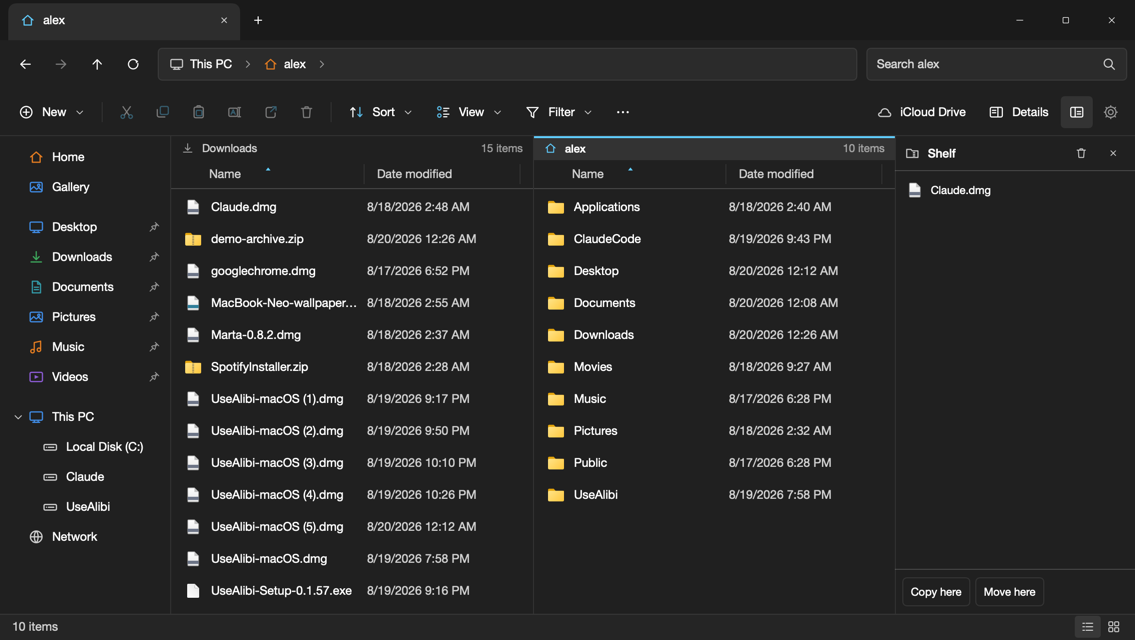
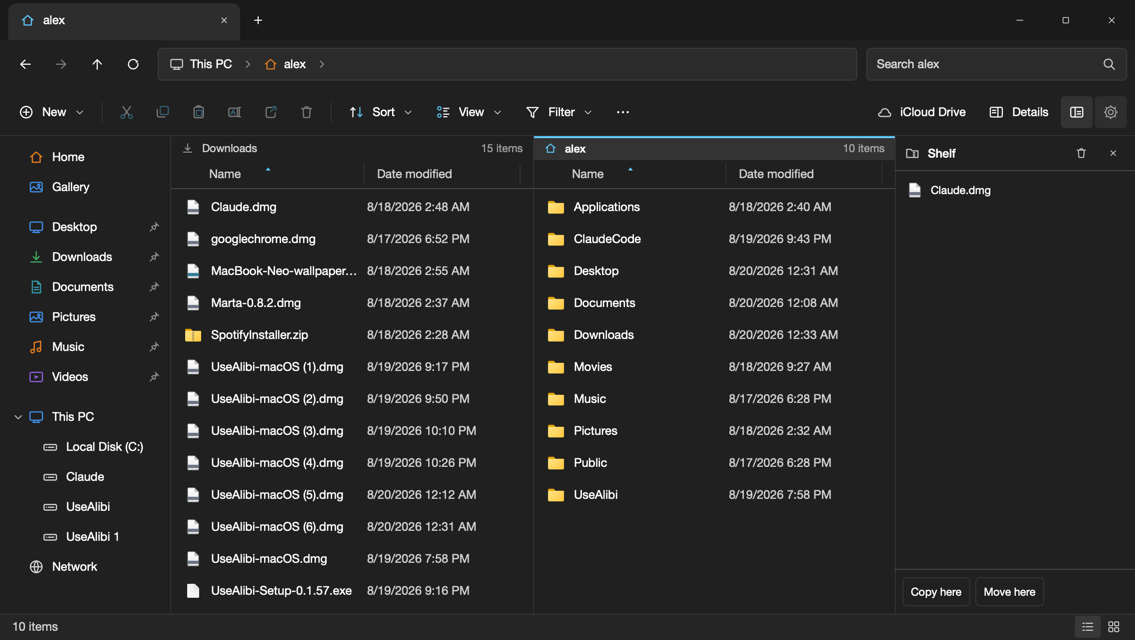
Stop the Home page from overflowing a narrow pane
With two panes open, the Recent list's fixed columns added up to about
830pt, far more than half a window. SwiftUI does not compress fixed
frames, so the row overflowed and dragged the whole layout sideways,
pushing the sidebar and the left pane off screen.

The Recent list now sheds Activity, then Account, then Date as space
runs out, the Quick access grid packs down to one column, and a pane
clips its content as a backstop.

Both column layouts are now value types with the allocation in their
initialiser, and the test suite checks across widths from 140 to 1600
that neither can ever lay out wider than the pane it is drawn in.

diff --git a/Sources/HomeView.swift b/Sources/HomeView.swift
@@ -15,7 +15,7 @@ struct HomeView: View {
                     .padding(.top, 10)
 
                 if quickExpanded {
-                    LazyVGrid(columns: [GridItem(.adaptive(minimum: 250, maximum: 460), spacing: 4)],
+                    LazyVGrid(columns: [GridItem(.adaptive(minimum: 190, maximum: 460), spacing: 4)],
                               alignment: .leading, spacing: 4) {
                         ForEach(quickItems) { place in
                             QuickTile(place: place, ex: ex)
@@ -183,12 +183,26 @@ struct RecentTable: View {
     }
 
     var body: some View {
+        GeometryReader { geo in
+            table(columns: RecentColumns(available: geo.size.width))
+        }
+        .frame(height: 30 + 1 + (rows.isEmpty ? 50 : CGFloat(rows.count) * 44) + 8)
+    }
+
+    private func table(columns: RecentColumns) -> some View {
         VStack(alignment: .leading, spacing: 0) {
             HStack(spacing: 0) {
-                Text("Name").frame(width: 320, alignment: .leading).padding(.leading, 40)
-                Text("Date accessed").frame(width: 190, alignment: .leading)
-                Text("Account").frame(width: 160, alignment: .leading)
-                Text("Activity").frame(width: 160, alignment: .leading)
+                Text("Name")
+                    .frame(width: columns.name, alignment: .leading).padding(.leading, 40)
+                if let width = columns.date {
+                    Text("Date accessed").frame(width: width, alignment: .leading)
+                }
+                if let width = columns.account {
+                    Text("Account").frame(width: width, alignment: .leading)
+                }
+                if let width = columns.activity {
+                    Text("Activity").frame(width: width, alignment: .leading)
+                }
                 Spacer(minLength: 0)
             }
             .font(Win.body(12))
@@ -204,10 +218,37 @@ struct RecentTable: View {
                     .padding(.horizontal, 52).padding(.vertical, 16)
             } else {
                 ForEach(rows) { item in
-                    RecentRow(ex: ex, menus: menus, item: item)
+                    RecentRow(ex: ex, menus: menus, item: item, columns: columns)
                 }
             }
         }
+    }
+}
+
+/// The Recent list sheds columns as the pane narrows, so a half-width pane
+/// cannot force the layout wider than the window.
+struct RecentColumns {
+    static let minimumName: CGFloat = 180
+    static let padding: CGFloat = 64
+
+    var name: CGFloat
+    var date: CGFloat?
+    var account: CGFloat?
+    var activity: CGFloat?
+
+    /// Everything the row will actually lay out, padding included.
+    var totalWidth: CGFloat {
+        name + (date ?? 0) + (account ?? 0) + (activity ?? 0) + RecentColumns.padding
+    }
+
+    init(available: CGFloat) {
+        let minimumName: CGFloat = 180
+        var remaining = available - 64
+        name = minimumName
+        if remaining >= minimumName + 190 { date = 190; remaining -= 190 }
+        if remaining >= minimumName + 160 { account = 160; remaining -= 160 }
+        if remaining >= minimumName + 160 { activity = 160; remaining -= 160 }
+        name = max(minimumName, min(320, remaining))
     }
 }
 
@@ -215,6 +256,7 @@ struct RecentRow: View {
     @ObservedObject var ex: Explorer
     @ObservedObject var menus: MenuController
     let item: FileItem
+    var columns: RecentColumns
     @State private var hovering = false
 
     var body: some View {
@@ -228,14 +270,17 @@ struct RecentRow: View {
                         .font(Win.body(11)).foregroundStyle(Win.textSecondary).lineLimit(1)
                 }
             }
-            .frame(width: 320, alignment: .leading)
+            .frame(width: columns.name, alignment: .leading)
             .padding(.leading, 14)
 
-            Text(item.modifiedText)
-                .font(Win.body(12)).foregroundStyle(Win.textSecondary)
-                .frame(width: 190, alignment: .leading)
-            Text("").frame(width: 160)
-            Text("").frame(width: 160)
+            if let width = columns.date {
+                Text(item.modifiedText)
+                    .font(Win.body(12)).foregroundStyle(Win.textSecondary)
+                    .lineLimit(1)
+                    .frame(width: width, alignment: .leading)
+            }
+            if let width = columns.account { Text("").frame(width: width) }
+            if let width = columns.activity { Text("").frame(width: width) }
             Spacer(minLength: 0)
         }
         .frame(height: 44)

diff --git a/Sources/FileList.swift b/Sources/FileList.swift
@@ -277,27 +277,10 @@ struct DetailsView: View {
 
     var body: some View {
         GeometryReader { geo in
-            content(columns: layout(for: geo.size.width))
+            content(columns: DetailColumns(available: geo.size.width,
+                                           preferredName: nameWidth,
+                                           date: dateWidth, type: typeWidth, size: sizeWidth))
         }
-    }
-
-    /// Columns drop out as the pane narrows, rather than overflowing it.
-    /// Date survives longest after Name, then Size, then Type.
-    private func layout(for width: CGFloat) -> DetailColumns {
-        let minimumName: CGFloat = 120
-        var remaining = width - 26
-        var columns = DetailColumns(name: minimumName)
-        if remaining >= minimumName + dateWidth {
-            columns.date = dateWidth; remaining -= dateWidth
-        }
-        if remaining >= minimumName + sizeWidth {
-            columns.size = sizeWidth; remaining -= sizeWidth
-        }
-        if remaining >= minimumName + typeWidth {
-            columns.type = typeWidth; remaining -= typeWidth
-        }
-        columns.name = max(minimumName, min(nameWidth, remaining))
-        return columns
     }
 
     private func content(columns: DetailColumns) -> some View {
@@ -401,12 +384,40 @@ struct ColumnHeader: View {
     }
 }
 
-/// Which columns the Details view has room for.
+/// Which columns the Details view has room for. Columns drop out as the pane
+/// narrows rather than overflowing it, which would shove the whole window
+/// layout sideways. Date survives longest after Name, then Size, then Type.
 struct DetailColumns: Equatable {
+    static let minimumName: CGFloat = 120
+    static let padding: CGFloat = 26
+
     var name: CGFloat
     var date: CGFloat? = nil
     var type: CGFloat? = nil
     var size: CGFloat? = nil
+
+    init(name: CGFloat) { self.name = name }
+
+    init(available: CGFloat, preferredName: CGFloat,
+         date dateWidth: CGFloat, type typeWidth: CGFloat, size sizeWidth: CGFloat) {
+        var remaining = available - DetailColumns.padding
+        name = DetailColumns.minimumName
+        if remaining >= DetailColumns.minimumName + dateWidth {
+            date = dateWidth; remaining -= dateWidth
+        }
+        if remaining >= DetailColumns.minimumName + sizeWidth {
+            size = sizeWidth; remaining -= sizeWidth
+        }
+        if remaining >= DetailColumns.minimumName + typeWidth {
+            type = typeWidth; remaining -= typeWidth
+        }
+        name = max(DetailColumns.minimumName, min(preferredName, remaining))
+    }
+
+    /// Everything the row will actually lay out, padding included.
+    var totalWidth: CGFloat {
+        name + (date ?? 0) + (type ?? 0) + (size ?? 0) + DetailColumns.padding
+    }
 }
 
 struct DetailsRow: View {

diff --git a/Sources/SelfTest.swift b/Sources/SelfTest.swift
@@ -190,6 +190,7 @@ enum SelfTest {
         checkRightClickRouting()
 
         checkPanes(root: root, sub: sub)
+        checkColumnFitting()
         checkBatchRename()
         checkArchives(root: root)
         checkCompare(root: root, sub: sub)
@@ -330,6 +331,30 @@ enum SelfTest {
 
         model.toggleDual()
         check("dual pane closes again", !model.dual && model.activeSide == .left)
+    }
+
+    /// A pane must never lay out wider than it is: that is what pushed the
+    /// whole window sideways when two panes were open.
+    private static func checkColumnFitting() {
+        var detailsFit = true
+        var recentFit = true
+        for width in stride(from: 140.0, through: 1600.0, by: 20.0) {
+            let details = DetailColumns(available: CGFloat(width), preferredName: 300,
+                                        date: 150, type: 140, size: 90)
+            if details.totalWidth > CGFloat(width) + 0.5, width >= 200 { detailsFit = false }
+            let recent = RecentColumns(available: CGFloat(width))
+            if recent.totalWidth > CGFloat(width) + 0.5, width >= 280 { recentFit = false }
+        }
+        check("Details columns always fit the pane they are drawn in", detailsFit)
+        check("the Recent list always fits the pane it is drawn in", recentFit)
+
+        let narrow = DetailColumns(available: 300, preferredName: 300,
+                                   date: 150, type: 140, size: 90)
+        check("a narrow pane keeps Name and Date", narrow.date != nil && narrow.type == nil)
+        let wide = DetailColumns(available: 1200, preferredName: 300,
+                                 date: 150, type: 140, size: 90)
+        check("a wide pane shows every column",
+              wide.date != nil && wide.type != nil && wide.size != nil && wide.name == 300)
     }
 
     private static func checkBatchRename() {

diff --git a/Sources/ContentView.swift b/Sources/ContentView.swift
@@ -112,6 +112,11 @@ struct ContentView: View {
                 Prefs.shared.showShelf = true
                 if let first = ex.tab.items.first { Shelf.shared.add([first.url]) }
                 model.right?.go(to: Places.home)
+            case "dual-home":
+                if !model.dual { model.toggleDual() }
+                Prefs.shared.showShelf = true
+                model.left.go(to: .home)
+                model.right?.go(to: .home)
             case "rename":
                 let items = Array(ex.tab.items.prefix(6))
                 if !items.isEmpty { ex.sheet = .batchRename(items) }
@@ -280,6 +285,7 @@ struct PaneView: View {
             FileArea(ex: ex, menus: menus)
                 .frame(maxWidth: .infinity, maxHeight: .infinity)
         }
+        .clipped()
         .overlay(alignment: .top) {
             Rectangle().fill(isActive ? Win.accent : Color.clear).frame(height: 2)
         }

diff --git a/Sources/App.swift b/Sources/App.swift
@@ -28,8 +28,14 @@ final class AppState {
 
     @discardableResult
     func openNewWindow(at location: Location = .home) -> NSWindow {
+        // WINEXP_SIZE=1400x900 opens at a given size, for screenshots.
+        var size = NSSize(width: 1135, height: 640)
+        if let spec = ProcessInfo.processInfo.environment["WINEXP_SIZE"] {
+            let parts = spec.split(separator: "x").compactMap { Double($0) }
+            if parts.count == 2 { size = NSSize(width: parts[0], height: parts[1]) }
+        }
         let window = ExplorerWindow(
-            contentRect: NSRect(x: 0, y: 0, width: 1135, height: 640),
+            contentRect: NSRect(origin: .zero, size: size),
             styleMask: [.titled, .closable, .miniaturizable, .resizable, .fullSizeContentView],
             backing: .buffered, defer: false)
         window.title = "File Explorer"

diff --git a/README.md b/README.md
@@ -11,7 +11,7 @@ Same layout, same Fluent iconography, same keyboard shortcuts, driving the real 
 [![Platform](https://img.shields.io/badge/platform-macOS%2014%2B-000000?style=flat-square&logo=apple)](https://www.apple.com/macos/)
 [![Swift](https://img.shields.io/badge/Swift-6-F05138?style=flat-square&logo=swift&logoColor=white)](https://swift.org)
 [![Dependencies](https://img.shields.io/badge/dependencies-none-4CC2FF?style=flat-square)](#build)
-[![Tests](https://img.shields.io/badge/tests-85%20passing-6CCB5F?style=flat-square)](#tests)
+[![Tests](https://img.shields.io/badge/tests-89%20passing-6CCB5F?style=flat-square)](#tests)
 [![License](https://img.shields.io/badge/license-MIT-lightgrey?style=flat-square)](LICENSE)
 
 <img src="docs/demo.gif" width="900" alt="Browsing folders, switching view modes, the context menu, and changing theme and accent colour">
@@ -254,7 +254,7 @@ WINEXP_SELFTEST=1 "build/File Explorer.app/Contents/MacOS/FileExplorer"
 
 Creates a scratch folder and drives the **real** key handler and file operations through copy, cut, paste, undo, rename, delete, restore, navigation, tabs, view modes, type-ahead, sorting, search, shortcut re-mapping, pinning, folder icons and right-click routing. **49 checks.**
 
-Development helpers: `WINEXP_START=<path>` opens at a folder, `WINEXP_SNAPSHOT=<file.png>` writes a screenshot of the window, `WINEXP_TEST=menu:context|dialog:settings|dialog:about|dual|rename|archive|compare|drop` opens a particular menu, dialog or layout for inspection, and `WINEXP_DEMO=<dir>` drives the scripted tour that produces the animation at the top of this page.
+Development helpers: `WINEXP_START=<path>` opens at a folder, `WINEXP_SNAPSHOT=<file.png>` writes a screenshot of the window, `WINEXP_SIZE=1400x900` opens at a given size, `WINEXP_TEST=menu:context|dialog:settings|dialog:about|dual|dual-home|rename|archive|compare|drop` opens a particular menu, dialog or layout for inspection, and `WINEXP_DEMO=<dir>` drives the scripted tour that produces the animation at the top of this page.
 
 ## Deliberate differences
 
